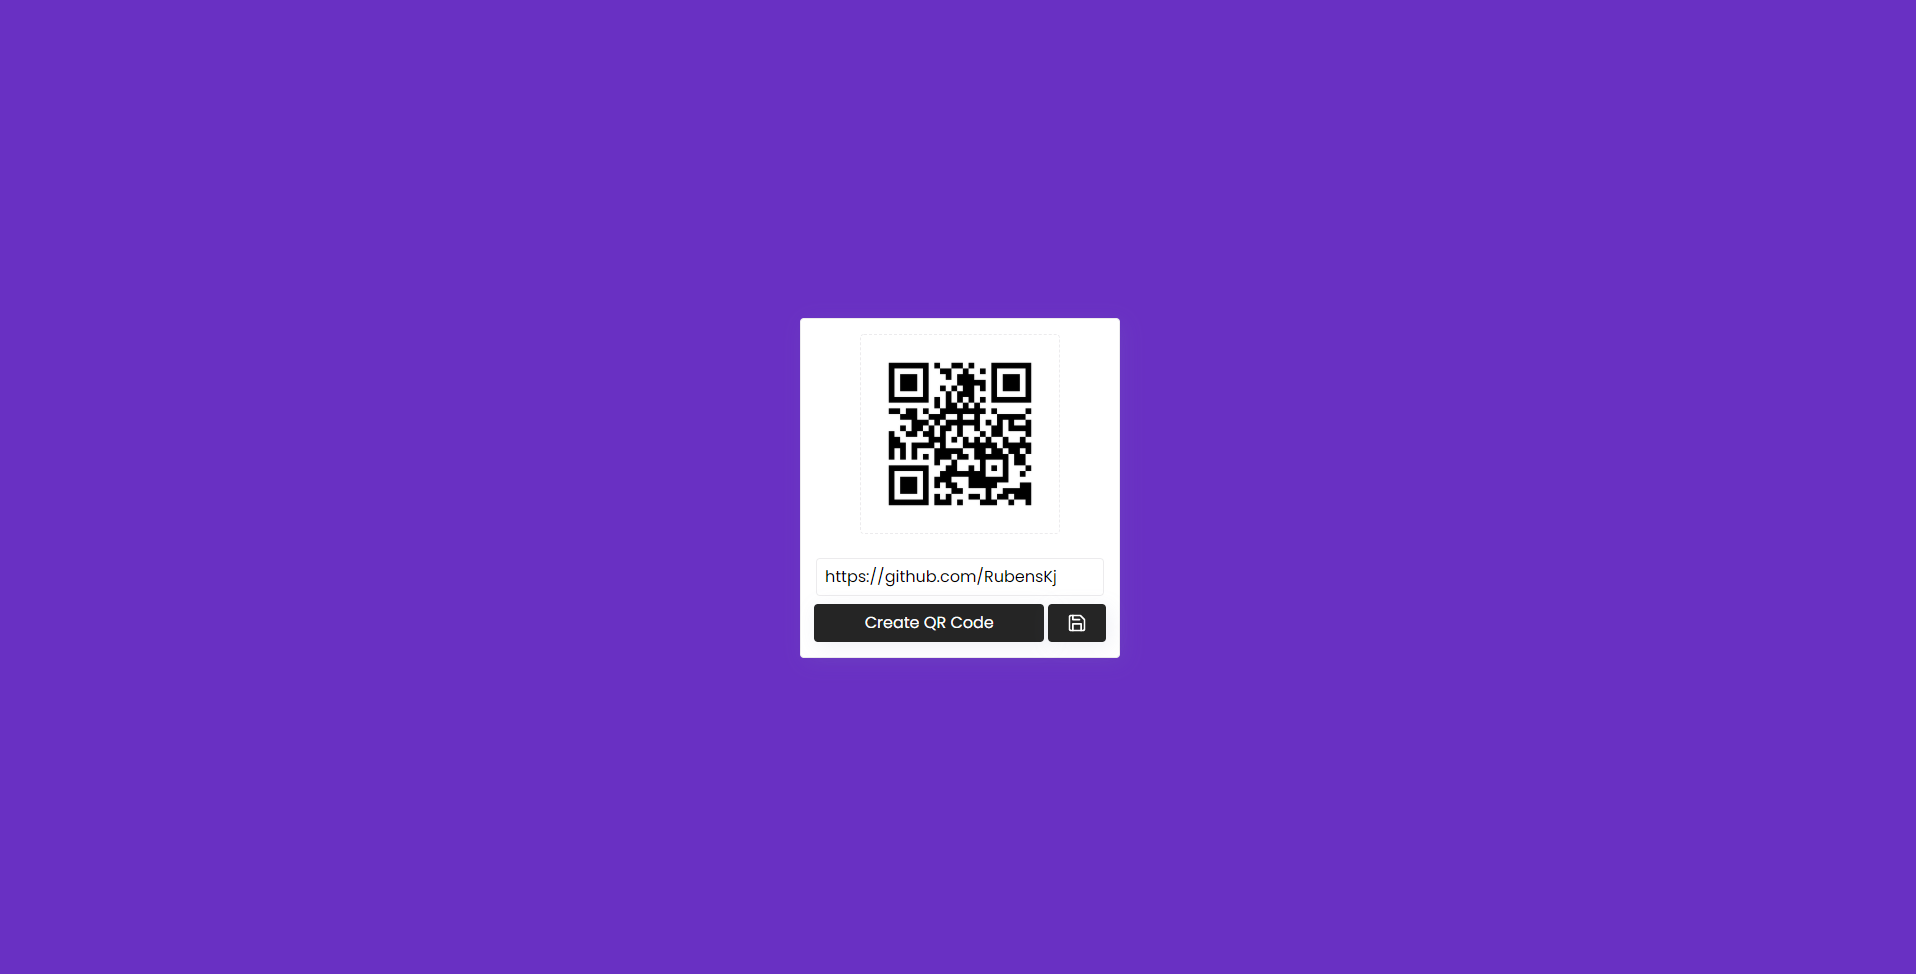
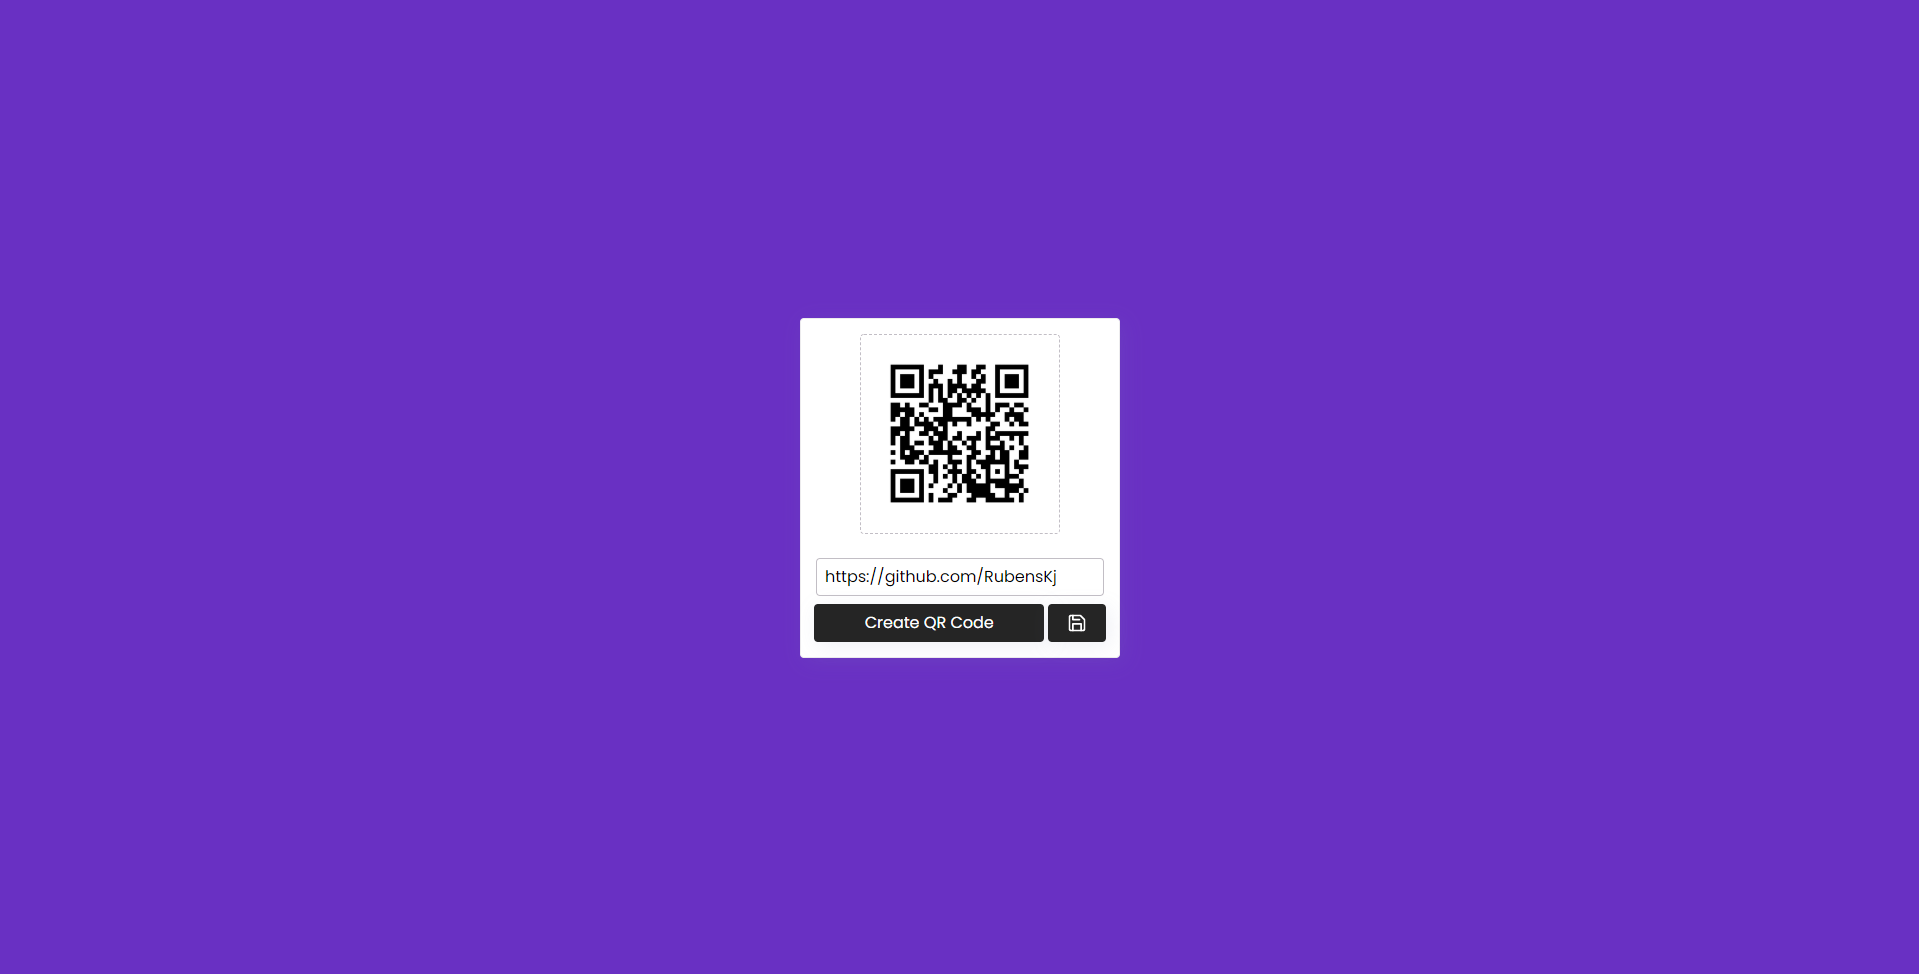
Changing images and border color

Changed region(s): [[0.4619, 0.3696, 0.5543, 0.5236], [0.4311, 0.5852, 0.5543, 0.6468], [0.5543, 0.616, 0.5851, 0.6468]]

diff --git a/client/src/components/Card/styles.ts b/client/src/components/Card/styles.ts
@@ -50,7 +50,7 @@ export const Input = styled.input`
   padding: 0 8px;
 
   border-radius: 4px;
-  border: 1px solid #ecebed;
+  border: 1px solid #c2bec5;
 `;
 
 export const Button = styled.button`
@@ -98,7 +98,7 @@ export const QRCodeArea = styled.div`
   margin-bottom: 24px;
 
   border-radius: 4px;
-  border: 1px dashed #ecebed;
+  border: 1px dashed #c2bec5;
 
   img {
     width: 100%;
